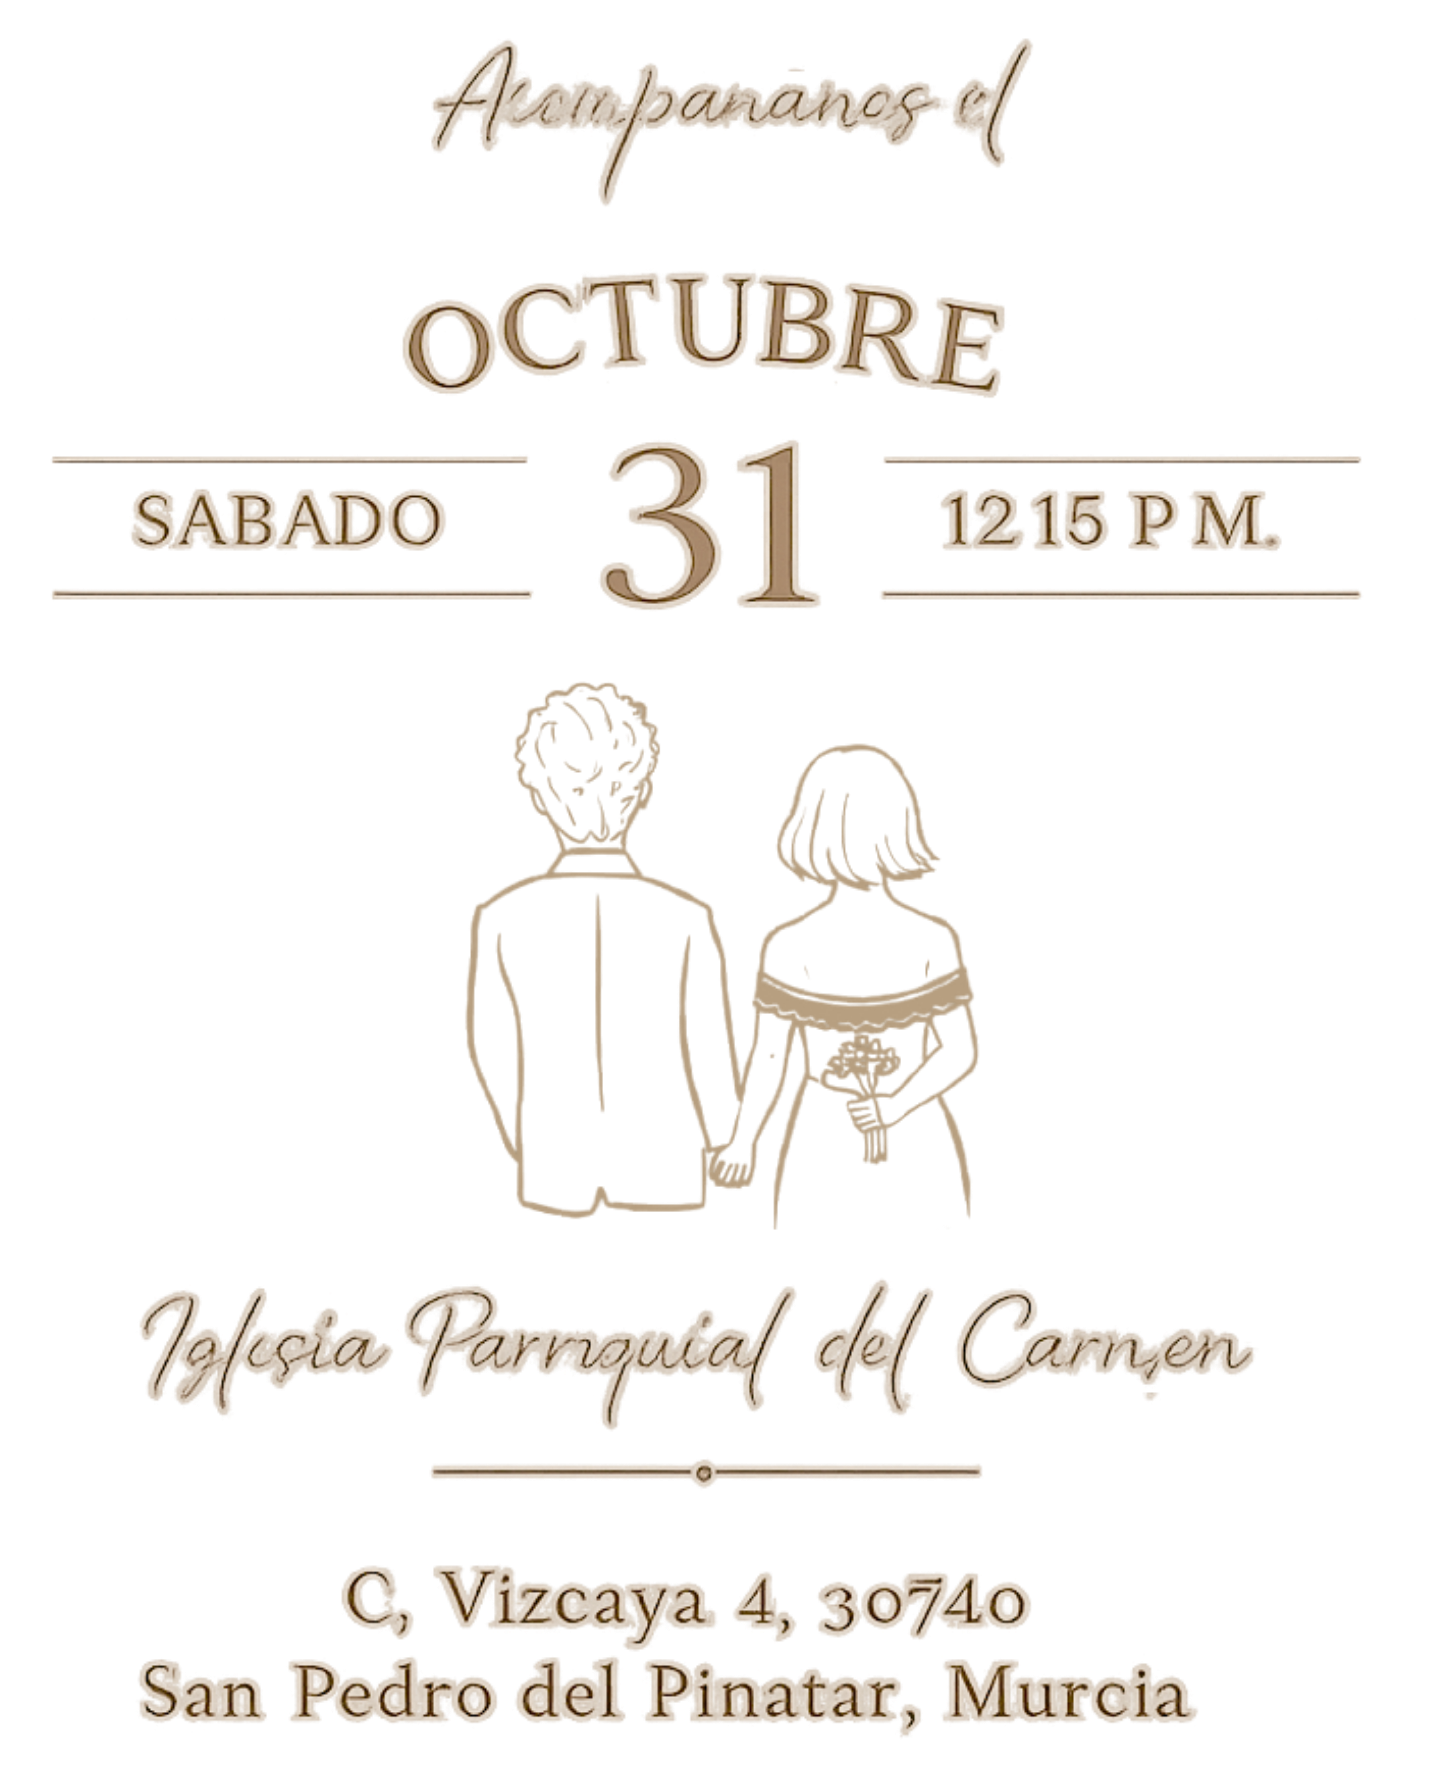
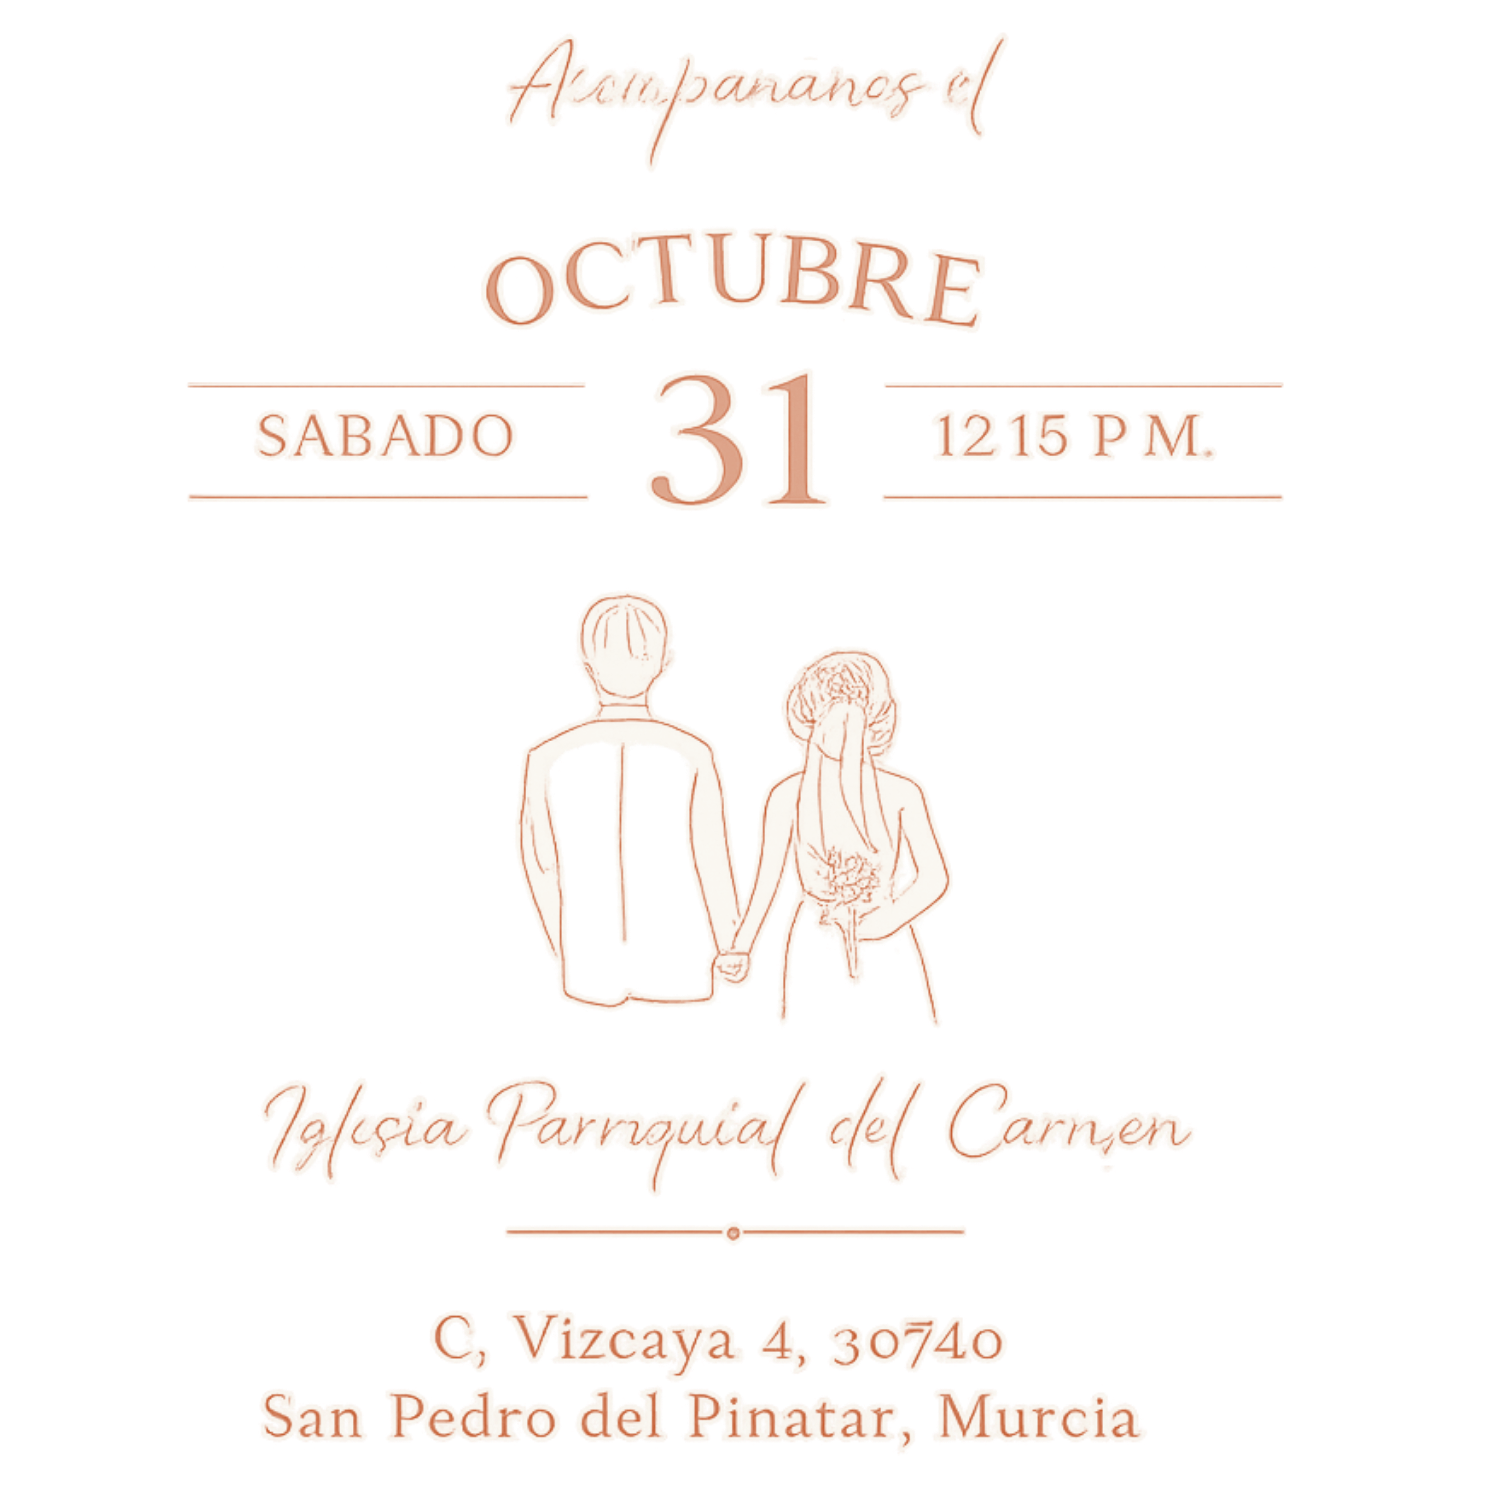
Mejoras

diff --git a/index.html b/index.html
@@ -27,27 +27,6 @@
     .suggest-card input[type="text"], .suggest-card input[type="url"], .suggest-card input[type="number"], .suggest-card textarea { width:100%; padding:0.6rem 0.8rem; border-radius:8px; border:1px solid #e6e6e6; }
     @media (max-width:600px){ .suggest-top-img{ width:120px; top:-70px } .suggest-card{ padding:2.2rem 1rem 1.2rem } }
     /* Carrusel de imágenes */
-    #carousel-section .carousel-wrapper { position:relative; width:100%; max-width:1100px; height:38vh; max-height:520px; overflow:hidden; border-radius:16px; box-shadow:0 8px 30px rgba(0,0,0,0.12); }
-    #carousel-section .slides { position:relative; width:100%; height:100%; }
-    #carousel-section .slide { position:absolute; inset:0; opacity:0; transition:opacity 0.6s ease; display:flex; align-items:center; justify-content:center; }
-    #carousel-section .slide.active { opacity:1; z-index:2; }
-    #carousel-section .slide img { width:100%; height:100%; object-fit:cover; display:block; }
-    #carousel-section .carousel-dots { position:absolute; bottom:10px; left:50%; transform:translateX(-50%); display:flex; gap:8px; z-index:3; }
-    #carousel-section .carousel-dot { width:11px; height:11px; border-radius:50%; background:rgba(255,255,255,0.65); border:none; padding:0; cursor:pointer; box-shadow:0 1px 2px rgba(0,0,0,0.15); }
-    #carousel-section .carousel-dot.active { background:#b48a78; }
-    @media (max-width:600px) { #carousel-section .carousel-wrapper { height:28vh; } }
-    /* Título del carrusel: asegurar visibilidad sobre las imágenes */
-    #carousel-section .title {
-      position: relative;
-      z-index: 999;
-      color: #ffffff;
-      text-shadow: 0 2px 8px rgba(0,0,0,0.6);
-      font-family: 'Playfair Display', serif;
-      font-size: clamp(1.1rem, 2.2vw, 1.8rem);
-      text-align: center;
-      margin: 0 0 1rem 0;
-      padding: 0.2rem 0.6rem;
-    }
   </style>
 </head>
 <body>
@@ -64,17 +43,18 @@
   
   <section id="nos-casamos" class="full-screen">
     <div class="top-hero">
-      <img src="/img/sunset_portada.jpg" alt="Portada atardecer" class="top-sunset">
+      <img src="/img/IMG-20260503-WA0010.jpg" alt="Portada atardecer" class="top-sunset">
       <img src="/img/curva_portada_horizontal.png" alt="Curva portada" class="top-curve" id="top-curve">
     </div>
     <div class="names-block">
-      <img src="/img/nombre.png" alt="Elena y Dani" class="names-image" style="width:100%;height:auto;">
+      <div class="names-image-wrap" style="width:100%;height:auto;">
+        <img src="/img/nombres_personaliz.png" alt="Elena y Dani" class="names-image" style="width:100%;height:auto;">
+        <div class="names-overlay">¡Comienza el juego!</div>
+      </div>
     </div>
-
-    <p class="footer-text">Acompáñanos a celebrar el inicio<br>de nuestra vida juntos.</p>
 </section>
 
-  <section id="countdown-section" class="full-screen" style="display:flex;align-items:center;justify-content:center;min-height:45vh;height:45vh;background-image:url('/img/contador.png');background-repeat:no-repeat;background-size:cover;background-position:center center;">
+  <section id="countdown-section" class="full-screen" style="display:flex;align-items:center;justify-content:center;min-height:45vh;height:45vh;background-image:url('/img/contador3.png');background-repeat:no-repeat;background-size:cover;background-position:center center;">
     <div class="count-inner"  style="display:flex;flex-direction:column;align-items:center;gap:0.6rem;padding:1rem;left: 1.5em;top: 2em;">
       <div class="count-grid" style="display:flex;align-items:center;margin-top:3.5rem;">
         <div class="count-item" style="text-align:center;min-width:50px;color:#fff;text-shadow:0 1px 2px rgba(0,0,0,0.5);">
@@ -99,7 +79,7 @@
 
 
   <section id="wedding-info" class="full-screen">
-    <img src="/img/pareja-fechas.png" alt="Acompañanos" class="names-image" style="width:80%;height:auto;">
+    <img src="/img/pareja-fechas-mod-int.png" alt="Acompañanos" class="names-image" style="width:80%;height:auto;">
       <div style="margin-top: 1em;">
         <a href="https://www.google.com/maps/place/Iglesia+de+San+Pedro+Apóstol/@37.835209,-0.779364,17z/data=!3m1!4b1!4m6!3m5!1s0xd6310e2e3c7e3e9:0x7e2e6e7e0e92ce5d!8m2!3d37.835209!4d-0.7767891!16s%2Fg%2F11b6h7w3w9?hl=es" target="_blank" class="btn btn-primary" style="background:#b48a78;border:none;border-radius:2em;padding:0.75em 2em;font-size:1.1em;">
           Ver ubicación
@@ -109,7 +89,7 @@
   </section>
 
   <section id="salon-celebraciones" class="full-screen">
-    <h2 style="font-family: 'Playfair Display', serif !important; font-size: 1.3em; color: grey">Y posteriormente celebra  
+    <h2 style="font-family: 'Playfair Display', serif !important; font-size: 1.3em; color: #c15123">Y posteriormente celebra  
       <br>con nosotros en</h2>
 
     <img src="https://www.fincaeljardin.com/wp-content/uploads/2024/03/Logo-menusuperior-blanco.svg" class="salon-logo" alt="Finca El Jardín">
@@ -119,6 +99,10 @@
           Ver ubicación
         </a>
       </div>
+  </section>
+
+  <section id="itinerario" class="full-screen">
+      <img src="/img/Itinerario.png" alt="Itinerario" class="names-image" style="width:64%;height:auto;">
   </section>
 
     <section id="fiesta" style="margin-bottom: 10rem;" class="full-screen">
@@ -136,48 +120,6 @@
         <a href="#sugerir-cancion" class="btn btn-primary" style="background:#b48a78;border:none;border-radius:2em;padding:0.6em 1.2em;font-size:1.05em;">Sugerir Canción</a>
       </div>
     </section>
-
-    <!-- Sección: Carrusel de imágenes (auto-advance cada 3s) -->
-    <section id="carousel-section" class="full-screen" style="display:flex;align-items:center;justify-content:center;padding:2rem 1rem;margin-bottom:2rem;">
-      <img src="/img/fotos.png" style="max-width: 108%;" alt="Fotos">
-      <div class="carousel-wrapper">
-        <div class="slides">
-          <div class="slide active"><img src="/img/1.jpg" alt=""></div>
-          <div class="slide"><img src="/img/2.jpg" alt=""></div>
-          <div class="slide"><img src="/img/3.jpg" alt=""></div>
-          <div class="slide"><img src="/img/4.jpg" alt=""></div>
-        </div>
-        <div class="carousel-dots" aria-hidden="true"></div>
-      </div>
-    </section>
-    <script>
-      document.addEventListener('DOMContentLoaded', function(){
-        var slides = document.querySelectorAll('#carousel-section .slide');
-        if (!slides || slides.length === 0) return;
-        var dotsContainer = document.querySelector('#carousel-section .carousel-dots');
-        var current = 0;
-        slides.forEach(function(s, i){
-          var dot = document.createElement('button');
-          dot.className = 'carousel-dot' + (i === 0 ? ' active' : '');
-          dot.dataset.index = i;
-          dotsContainer.appendChild(dot);
-          dot.addEventListener('click', function(){ showSlide(parseInt(this.dataset.index)); resetTimer(); });
-        });
-        function showSlide(idx){
-          slides.forEach(function(s,i){ s.classList.toggle('active', i === idx); });
-          Array.from(dotsContainer.children).forEach(function(d,i){ d.classList.toggle('active', i === idx); });
-          current = idx;
-        }
-        function nextSlide(){ showSlide((current + 1) % slides.length); }
-        var timer = setInterval(nextSlide, 3000);
-        function resetTimer(){ clearInterval(timer); timer = setInterval(nextSlide, 3000); }
-        var wrapper = document.querySelector('#carousel-section .carousel-wrapper');
-        if (wrapper) {
-          wrapper.addEventListener('mouseenter', function(){ clearInterval(timer); });
-          wrapper.addEventListener('mouseleave', function(){ resetTimer(); });
-        }
-      });
-    </script>
 
     <section id="sugerir-cancion" class="full-screen">
       <div class="suggest-card">
@@ -375,6 +317,7 @@
           var idsToShow = [
             'nos-casamos',
             'wedding-info',
+            'itinerario',
             'salon-celebraciones',
             'countdown-section',
             'celebracion',

diff --git a/src/style.css b/src/style.css
@@ -35,6 +35,55 @@
   flex-wrap: nowrap;
 }
 
+/* Render the PNG content in a single terracotta color while keeping transparent background intact.
+   Approach: keep the original <img> for sizing/accessibility but hide it visually, and paint
+   a masked layer (using the same PNG) filled with the exact color. This ensures only the
+   non-transparent pixels receive the color #c15123 and the transparent background remains untouched. */
+.names-image-wrap{
+  position: relative;
+  display: block;
+  width: 100%;
+  max-width: 860px;
+}
+.names-image-wrap .names-image{
+  display: block;
+  width: 100%;
+  height: auto;
+  opacity: 0; /* keep image in DOM for layout and alt text, but hide visual content only when wrapped */
+}
+.names-image-wrap::before{
+  content: "";
+  position: absolute;
+  inset: 0;
+  background-color: #c15123; /* exact terracotta color requested */
+  -webkit-mask-image: url('/img/nombres_personaliz.png');
+  mask-image: url('/img/nombres_personaliz.png');
+  -webkit-mask-repeat: no-repeat;
+  mask-repeat: no-repeat;
+  -webkit-mask-position: center;
+  mask-position: center;
+  -webkit-mask-size: contain;
+  mask-size: contain;
+  pointer-events: none;
+  z-index: 1;
+}
+
+.names-overlay{
+  position: absolute;
+  left: 50%;
+  top: 18%;
+  transform: translate(-50%, -50%);
+  z-index: 2;
+  color: #c15123;
+  font-family: wfont_25822f_742283984906494d857b784be3c912ce, wf_742283984906494d857b784be, orig_geographica_script_w_01_regular, 'Great Vibes', cursive;
+  font-size: clamp(1.8rem, 4vw, 2.8rem);
+  font-weight: 800;
+  letter-spacing: 0.02em;
+  text-align: center;
+  pointer-events: none;
+  text-shadow: 0 1px 0 rgba(255,255,255,0.35);
+}
+
 .names-block .name{
   font-family: var(--fallback-serif);
   font-weight: 400;
@@ -604,7 +653,6 @@ footer {
 #nos-casamos {
   position: relative;
   overflow: hidden;
-  margin-bottom: 10em;
 }
 
 /* Oscurecimiento muy suave para contraste del papel */
@@ -669,11 +717,12 @@ footer {
 /* Wedding information section */
 #wedding-info {
   background: #f9f9f9;
-  margin-bottom: 2rem;
+  /* Reduce extra gap below wedding-info so next section aligns visually */
+  margin-bottom: 1.2rem;
 }
 
-#salon-celebraciones {
-  margin-bottom: 10rem;
+#itinerario {
+  background: #f9f9f9;
 }
 
 #wedding-info h2, #wedding-info p {
@@ -817,6 +866,7 @@ body {
   font-family: 'Playfair Display', serif;
   color: #3a2c1a;
   background-color: #FDFCF4 !important;
+  /* background-color: #dcd6ca !important; */
 }
 
 h1, h2, h3 {
@@ -1035,7 +1085,7 @@ input {
 }
 
 /* Bloque de nombres: estilos solicitados (Playfair Display + Allura) */
-.names-block { margin: 1.2rem 0 0.8rem; }
+.names-block { margin: -0.8rem; }
 
 .name {
   font-family: 'Playfair Display', Georgia, 'Times New Roman', serif;
@@ -1626,6 +1676,7 @@ img, iframe, .envelope-image, .corner-decor, .invitation-box img {
 /* Global background for all sections (overrides previous 'none') */
 section {
   background-color: #FDFCF4 !important;
+  /* background-color: #dcd6ca !important; */
 }
 
 /* Salon logo: force dark rendering and subtle shadow to increase contrast
@@ -1634,7 +1685,8 @@ section {
   display:block;
   max-width: 64%;
   height: auto;
-  margin: 0.8rem auto;
+  /* Reduce vertical margin to better match spacing of other sections */
+  margin: 0.4rem auto;
   --logo-darkness: 0; /* 0 = black, 1 = original colors */
   /* make white SVG appear dark and add shadow for legibility */
   filter: brightness(0) saturate(100%) contrast(120%) drop-shadow(0 6px 18px rgba(0,0,0,0.28));

diff --git a/src/countdown.css b/src/countdown.css
@@ -37,7 +37,7 @@
   align-items: center;
   justify-content: center;
   padding: 3.2rem 1.2rem;
-  background-image: url('/img/contador.png') !important;
+  background-image: url('/img/contador3.png') !important;
   background-repeat: no-repeat !important;
   /* Make the visible background image appear 90% of its original size */
   background-size: 90% auto !important;
@@ -45,7 +45,7 @@
   /* Scale the whole section visually to 90% (keeps layout centered) */
   transform: scale(0.9);
   transform-origin: center center;
-  margin-bottom: 10em;
+  margin-bottom: 8em;
 }
 
 /* Inner: centro y limite de ancho */
@@ -305,7 +305,7 @@
 /* Colores personalizados para contadores (sobrescriben reglas previas) */
 #countdown-section .count-number,
 #countdown-section .count-label {
-  color: #B3804B !important;
+  color: #c15123 !important;
 }
 
 /* Alternativa para juntar aún más items + ':'

diff --git a/src/main.ts b/src/main.ts
@@ -172,7 +172,8 @@ if (invitationCard) {
   document.body.classList.add('no-scroll');
 } else {
   // si no hay invitation-card, mostrar las principales secciones por seguridad
-  const fallbackIds = ['nos-casamos', 'wedding-info', 'salon-celebraciones', 'celebracion', 'fiesta', 'carousel-section', 'form', 'foto-final', 'confirmacion-asistencia'];
+  const fallbackIds = ['nos-casamos', 'wedding-info', 'salon-celebraciones', 'celebracion', 'fiesta', 'form', 'foto-final', 'confirmacion-asistencia'];
+  fallbackIds.push('itinerario'); // Include 'itinerario' in fallbackIds
   fallbackIds.forEach(id => {
     const s = document.getElementById(id);
     if (s) s.style.display = 'flex';
@@ -364,11 +365,11 @@ function showMainSections() {
   const idsToShow = [
     'nos-casamos',
     'wedding-info',
+    'itinerario',
     'salon-celebraciones',
     'countdown-section',
     'celebracion',
     'fiesta',
-    'carousel-section',
     'foto-final',
     'confirmacion-asistencia'
   ];